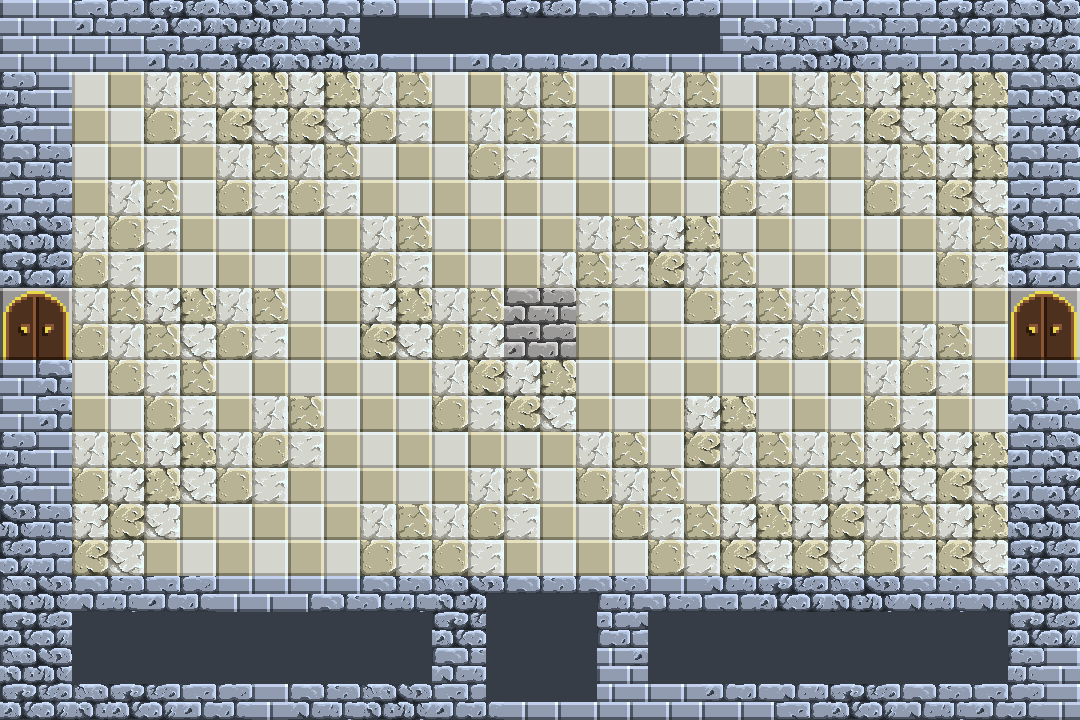
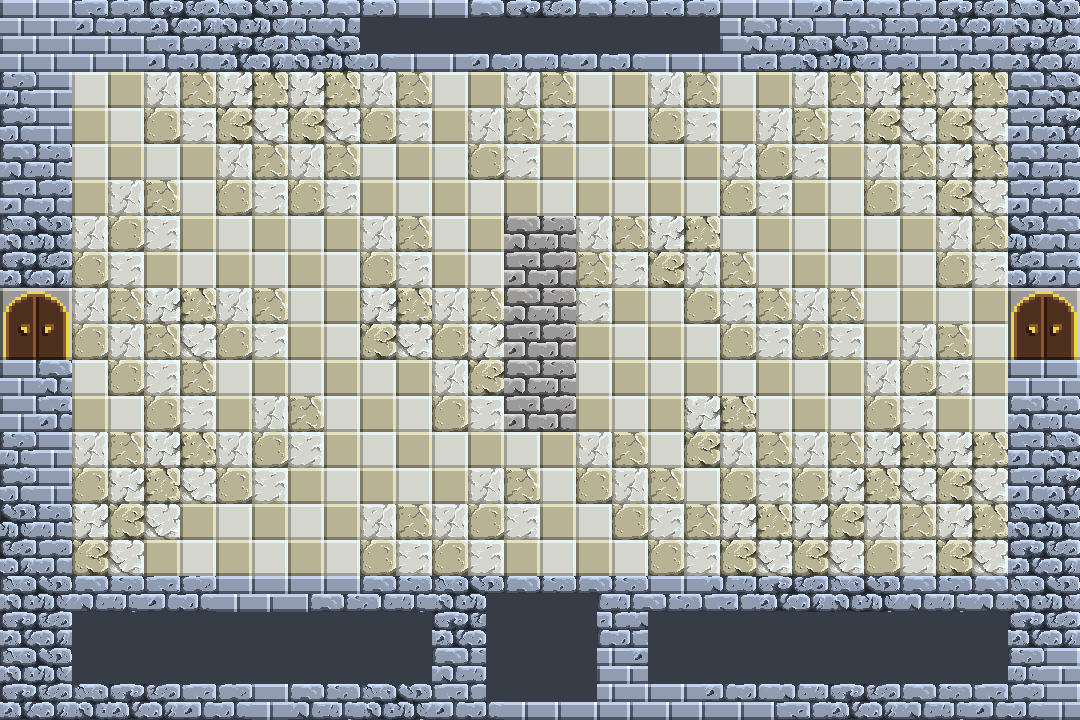
zmena mistnosti

Changed region(s): [[0.4583, 0.4889, 0.55, 0.6111], [0.4583, 0.275, 0.55, 0.3972]]

diff --git a/src/hra/hra.js b/src/hra/hra.js
@@ -5,16 +5,16 @@ export default {
         // 1.místnost - kuchyně
         { 
             id: 1,
-            uvitani: '"To jsem rád, že tě vidím! Určitě mi pomůžeš s receptem. Takže, potřebuji zjistit, ',
-            otazka: 'která z těchto hub je nejedlá:"',
+            uvitani: '<p>"To jsem rád, že tě vidím! Určitě mi pomůžeš s receptem. Takže, potřebuji zjistit, ',
+            otazka: 'která z těchto hub je nejedlá:"</p>',
             odpovedi: [
-                'hřib smrkový',
-                'bedla obecná',
-                'hřib satan',
+                '<li>hřib smrkový</li>',
+                '<li>bedla obecná</li>',
+                '<li>hřib satan</li>',
             ],
             spravna: 0,
-            reakceYes: '"Skvělé! To bude super bašta pro celé podzemí! Díky za pomoc."',
-            reakceNo: '"Mno, raději se podívám do kuchařky, to se mi nezdá,… hmmm…, že ty chceš, aby nám bylo všem špatně?!? Mazej pryč, než tě vezmu válečkem!"',
+            reakceYes: '<p>"Skvělé! To bude super bašta pro celé podzemí! Díky za pomoc."</p>',
+            reakceNo: '<p>"Mno, raději se podívám do kuchařky, to se mi nezdá,… hmmm…, že ty chceš, aby nám bylo všem špatně?!? Mazej pryč, než tě vezmu válečkem!"</p>',
         },
         { 
             id: 2,
@@ -203,7 +203,7 @@ export default {
         // 0.místnost - pravidla
         { 
             id: 16,
-            uvitani: '<p>Vítej učedníku! <br> Jistě se těšíš na dobrodružnou cestu do našeho podzemí, ovšem pozor, slávy a bohatství u nás nedosáhneš mečem či kouzlem, ale svými vědomostmi! Připrav se proto na nejrůznější záludné otázky, které ti obyvatelé těchto kobek budou klást. V každé místnosti, kterou navštívíš, tě bude čekat stvoření s otázkou, která ho moc trápí. Když správně odpovíš, odmění tě zlaťákem, ovšem když se spleteš, nejspíš tě vezme něčím po hlavě a to trochu zabolí! Dostaneš se k němu jednoduše pomocí šipek na klávesnici. Ovšem pozor, některé místnosti jsou trochu záludné a asi se trochu projdeš. Tak hodně zdaru a vzhůru dolů do podzemí!</p>',
+            uvitani: '<p><strong>Vítej učedníku</strong> na dobrodružné cestě do našeho podzemí! Ovšem pozor, slávy a bohatství u nás nedosáhneš mečem či kouzlem, ale svými <strong>vědomostmi!</strong></p> <p>V každé místnosti, kterou navštívíš, tě bude čekat místní obyvatel s otázkou, která ho moc trápí. <strong>Když správně odpovíš, odmění tě zlaťákem, ovšem když se spleteš, nejspíš tě vezme něčím po hlavě</strong> a to trochu zabolí! Dostaneš se k němu jednoduše pomocí <strong>šipek na klávesnici</strong>. Některé místnosti jsou trochu záludné a asi se trochu projdeš.</p> <p>Tak hodně zdaru a <strong>vzhůru dolů do podzemí!</strong></p>',
         },
         // místnost - prohra
         { 
@@ -246,6 +246,7 @@ export default {
             hodnoceni: 'Král',
             popis: 'Lepší už to být prostě nemůže. Král musí být moudrý, silný a znalý mnoha oborů, aby mohl svému království dobře vládnout. To vše jsi právě prokázal. Je vidět, že tě jen tak někdo nenachytá na švestkách a nemůže tě vodit za nos. Výborně! Ať žije král!',
         },
+        
+    ],
 
-    ]
-}
+};

diff --git a/src/hra/Zkouska.vue b/src/hra/Zkouska.vue
@@ -1,0 +1,105 @@
+<template>
+  <div>
+
+    <div class = "kuchyneOT" v-show="kuchyneOT.viditelne" v-html= "kuchyneOT.text"></div>
+
+  </div>
+</template>
+
+<script>
+import Hra from "@/hra/hra.js"
+
+export default {
+
+  data() {
+      return {
+          kuchyneOT: {
+            viditelne: true,
+            text: Hra.otazky[0].uvitani,
+            },
+      },
+  },
+
+  methods: {
+      this.kuchyneOT.viditelne = true;
+  },
+      /*pokus o otázku -> počítání bodů*/
+
+    //aktualniIndex: 0,
+    //odpovediHrace: [],
+
+    const zivotyEl = document.querySelector('#zivoty');
+    const pocitaniSkore = document.querySelector('#score');
+    let skore = 0;
+    const mince = {
+        x: 10,
+        y: 10,
+        sirka: 36,
+        vyska: 36,
+        element: document.querySelector('#mince')
+    };
+
+    function odpovedHrace (panacek, odpoved) {
+		// změníme obrázek počtu srdíček -> pomocí backticků měníme číslo dle počtu aktuálních životů, odebereme živůtek a přehrajeme zvuk 
+        
+        if ()
+		zivotyEl.src = `images/srdce-${panacek.pocetZivotu}.png`;
+        panacek.pocetZivotu--;
+        // zvukZivot.play();
+
+		if (panacek.pocetZivotu === 0) {
+			console.log('konec hry');
+
+
+    computed: {
+
+		pocetSpravnychOdpovedi() {
+			let pocet = 0;
+			for (let index=0; index < this.otazky.length; index++) {
+				if (this.otazky[index].spravna === this.odpovediUzivatele[index] ) {
+					pocet++;
+				}
+			}
+			return pocet;
+		},
+
+	},
+
+	methods: {
+
+		odpovedNaOtazku(odpoved) {
+			this.odpovediUzivatele.push( odpoved );
+			this.aktualniIndex++;
+			// console.log(this.odpovediUzivatele)
+		}
+
+    }
+
+}
+</script>
+
+<style>
+
+.navod {
+  position: absolute;
+  left: 108px;
+  top: 108px;
+  width: 432px;
+  min-height: 432px;
+  background-color: sandybrown;
+  /*background: #8B4513 linear-gradient(to bottom, #fdce68, rgb(170, 126, 43));*/
+  border:#8B4513 8px solid;
+  border-radius: 10px;
+  box-shadow: 3px 4px 5px rgba(0, 0, 0, 0.5);
+}
+
+ .navod >>> p {
+ padding: 20px;
+ font-size: 17px;
+ font-family:'Courier New', Courier, monospace;
+ text-align: justify;
+}
+
+</style>
+
+

diff --git a/src/views/Mistnost.vue b/src/views/Mistnost.vue
@@ -54,9 +54,9 @@ export default {
             [1, 1, 1, 1, 1, 1, 1, 1, 1, 1, 1, 1, 1, 1, 1],
             [1, 0, 0, 0, 0, 0, 0, 0, 0, 0, 0, 0, 0, 0, 1],
             [1, 0, 0, 0, 0, 0, 0, 0, 0, 0, 0, 0, 0, 0, 1],
-            [1, 0, 0, 0, 0, 0, 0, 0, 0, 0, 0, 3, 0, 0, 1],
+            [1, 0, 0, 0, 0, 0, 0, 1, 0, 0, 0, 3, 0, 0, 1],
             [2, 0, 0, 0, 0, 0, 0, 1, 0, 0, 3, 1, 3, 0, 2],
-            [1, 0, 0, 0, 0, 0, 0, 0, 0, 0, 0, 3, 0, 0, 1],
+            [1, 0, 0, 0, 0, 0, 0, 1, 0, 0, 0, 3, 0, 0, 1],
             [1, 0, 0, 0, 0, 0, 0, 0, 0, 0, 0, 0, 0, 0, 1],
             [1, 0, 0, 0, 0, 0, 0, 0, 0, 0, 0, 0, 0, 0, 1],
             [1, 1, 1, 1, 1, 1, 1, 1, 1, 1, 1, 1, 1, 1, 1]
@@ -164,17 +164,16 @@ export default {
 
 <style scoped>
 
-
 #panacek {
     position: absolute;
 }
 
 #pruvodce {
-  position: absolute;
+    position: absolute;
 }
 
 .pozadi {
-  position: relative;
+    position: relative;
     margin: 0 auto;
     background-image:url("./../assets/mistnosti/pravidla.png");
     background-repeat: no-repeat;
@@ -183,25 +182,25 @@ export default {
 }
 
 .navod {
-  position: absolute;
-  left: 108px;
-  top: 108px;
-  width: 432px;
-  min-height: 432px;
-  background-color: sandybrown;
-  /*background: #8B4513 linear-gradient(to bottom, #fdce68, rgb(170, 126, 43));*/
-  border:#8B4513 8px solid;
-  border-radius: 10px;
-  box-shadow: 3px 4px 5px rgba(0, 0, 0, 0.5);
+    position: absolute;
+    left: 102px;
+    top: 102px;
+    width: 432px;
+    min-height: 432px;
+    background-color: sandybrown;
+    /*background: #8B4513 linear-gradient(to bottom, #fdce68, rgb(170, 126, 43));*/
+    border:#8B4513 8px solid;
+    border-radius: 10px;
+    box-shadow: 3px 4px 5px rgba(0, 0, 0, 0.5);
 
 }
 
  .navod >>> p {
- padding:2px;
- font-size: 17px;
- font-family:'Courier New', Courier, monospace;
- text-align: justify;
-
+    padding: 5px 25px;
+    font-size: 18px;
+    font-family: 'Balsamiq Sans', cursive;
+    /*font-family:'Courier New', Courier, monospace;*/
+    text-align: justify;
 
 }
 

diff --git a/src/App.vue b/src/App.vue
@@ -7,5 +7,5 @@
 </template>
 
 <style>
-
+@import url('https://fonts.googleapis.com/css2?family=Balsamiq+Sans&display=swap" rel="stylesheet');
 </style>
